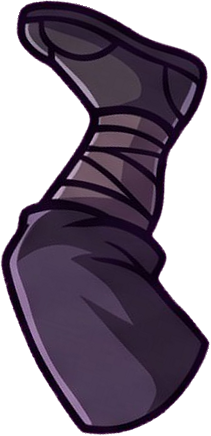
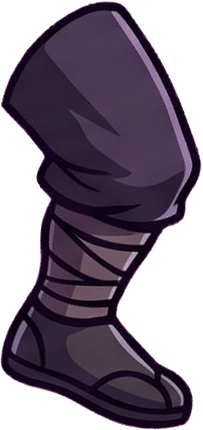
Rig: atletik durus/kosu, X bacak duzeltildi, kalin bacak, Kaya/Golge parca duzeltmesi, taban zemine oturur [skip ci]
Claude-Session: https://claude.ai/code/session_01MKBxJNLGR53ZhGKnJwbvgT

diff --git a/godot/tools/build_rig.py b/godot/tools/build_rig.py
@@ -15,9 +15,9 @@ EX = "/tmp/ex"
 # parca: (klasor, indeks) ; 'split': tam bacak/kol -> (ust, alt) dizden/dirsekten bolunur
 HEROES = {
     "flame_knight": dict(src="parts_alev", head=0, torso=1, skirt=6, cape=2, back=3,
-        ua=(4, 5), fa=(7, 8), thigh=(9, 10), shin=(11, 12), face="face_alev"),
+        ua=(4, 5), fa=(7, 8), thigh=(9, 10), shin=(11, 12), face="face_alev", thigh_w=1.45),
     "stone_guardian": dict(src="parts_kaya", head=0, torso=4, skirt=11, cape=10, back=12,
-        ua=(1, 3), fa=(7, 8), thigh=(15, 15), shin=(13, 14), face="face_kaya", back_rot=0.0, back_scale=0.8),
+        ua=(1, 3), fa=(7, 8), thigh=(15, 15), shin=(14, 14), face="face_kaya", thigh_w=1.15, boot_w=1.15, back_rot=0.0, back_scale=0.8),
     "blade_master": dict(src="parts_kilic", head=0, torso=1, skirt=2, back=3,
         ua=(5, 6), fa=(7, 8), thigh=(9, 9), shin=(10, 10), face="face_kilic",
         extras=[("tail", 4, "head", (0.12, 0.42), 0.3, "back")]),
@@ -27,10 +27,10 @@ HEROES = {
         ua=(4, 4), fa=(7, 3), leg=(10, 11), face="face_ejder", neck=0.74,
         extras=[("pad", 6, "ua_f", (0.5, 0.15), 0.0, "front"), ("bolt", 5, "back", (0.5, 0.05), 0.0, "fx")]),
     "spirit_shaman": dict(src="parts_ruh", head=0, torso=4, skirt=9, back=2,
-        arm=(6, 5), thigh=(10, 10), legsplit=(8, 11), face="face_ruh",
+        arm=(6, 5), thigh=(10, 10), legsplit=(8, 11), face="face_ruh", thigh_w=1.15,
         extras=[("braid", 1, "head", (0.25, 0.55), 0.15, "back"), ("orb", 3, "fa_f", (0.5, 1.0), 0.0, "fx")]),
     "shadow_ninja": dict(src="parts_golge", head=0, torso=1, skirt=2, back=9,
-        ua=("parts_golge_arms", 4, 6), fa=("parts_golge_arms", 5, 5), thigh=(11, 13), shin=(12, 14), face="face_golge", face_happy="face_golge_happy",
+        ua=("parts_golge_arms", 4, 6), fa=("parts_golge_arms", 5, 5), thigh=(13, 13), shin=(14, 14), face="face_golge", face_happy="face_golge_happy", arm_s=0.72,
         extras=[("scarf", 3, "torso", (0.6, 0.08), 0.2, "back"), ("dagger2", 10, "torso", (0.6, 0.45), -0.5, "back")]),
     "forest_archer": dict(src="parts_okcu", head=0, torso=2, skirt=5, cape=4, back=10,
         arm=(1, 3), leg=(7, 9), face="face_okcu",
@@ -161,8 +161,8 @@ def main(name):
         sh = sm.shape[0]
     else:
         sh = th * 0.2
-    rig["joint"]["hip_f"] = [-tw * 0.17, sh * 0.25]
-    rig["joint"]["hip_b"] = [tw * 0.17, sh * 0.25]
+    rig["joint"]["hip_f"] = [tw * 0.13, sh * 0.25]   # on bacak one dogru kalcadan: X bacak olmaz
+    rig["joint"]["hip_b"] = [-tw * 0.13, sh * 0.25]
     # kollar
     for k, side in ((0, "f"), (1, "b")):
         if "arm" in cfg:
@@ -173,6 +173,11 @@ def main(name):
         else:
             up_im, up_t, up_b = limb(get(cfg["ua"], k), "wide")
             lo_im, lo_t, lo_b = limb(get(cfg["fa"], k), "narrow")
+        a_s = cfg.get("arm_s", 1.0)
+        if a_s != 1.0:
+            rs = lambda im: im.resize((max(1, int(im.size[0] * a_s)), max(1, int(im.size[1] * a_s))), Image.LANCZOS)
+            up_im, lo_im = rs(up_im), rs(lo_im)
+            up_t, up_b, lo_t = [(v[0] * a_s, v[1] * a_s) for v in (up_t, up_b, lo_t)]
         save(f"arm_up_{side}", up_im, up_t)
         save(f"arm_lo_{side}", lo_im, lo_t)
         rig["joint"][f"elbow_{side}"] = [up_b[0] - up_t[0], up_b[1] - up_t[1]]
@@ -228,6 +233,8 @@ def main(name):
             # ayni genislige olceklendi: pivotu normal basla ayni yere (alt hizali) koy -> yuz kaymaz
             save(nm, f, (hp[0], f.size[1] - (hh - hp[1]) * (0.5 if nf < 0.9 else 1.0)))
     rig["height"] = round(float(rig["leg_len"] - rig["joint"]["head"][1] + hh * nf), 1)
+    rig["thigh_w"] = cfg.get("thigh_w", 1.0)
+    rig["boot_w"] = cfg.get("boot_w", 1.0)
     json.dump(rig, open(f"{out}/rig.json", "w"), indent=1)
     print(name, "boy", rig["height"], "bacak", rig["leg_len"])
 
